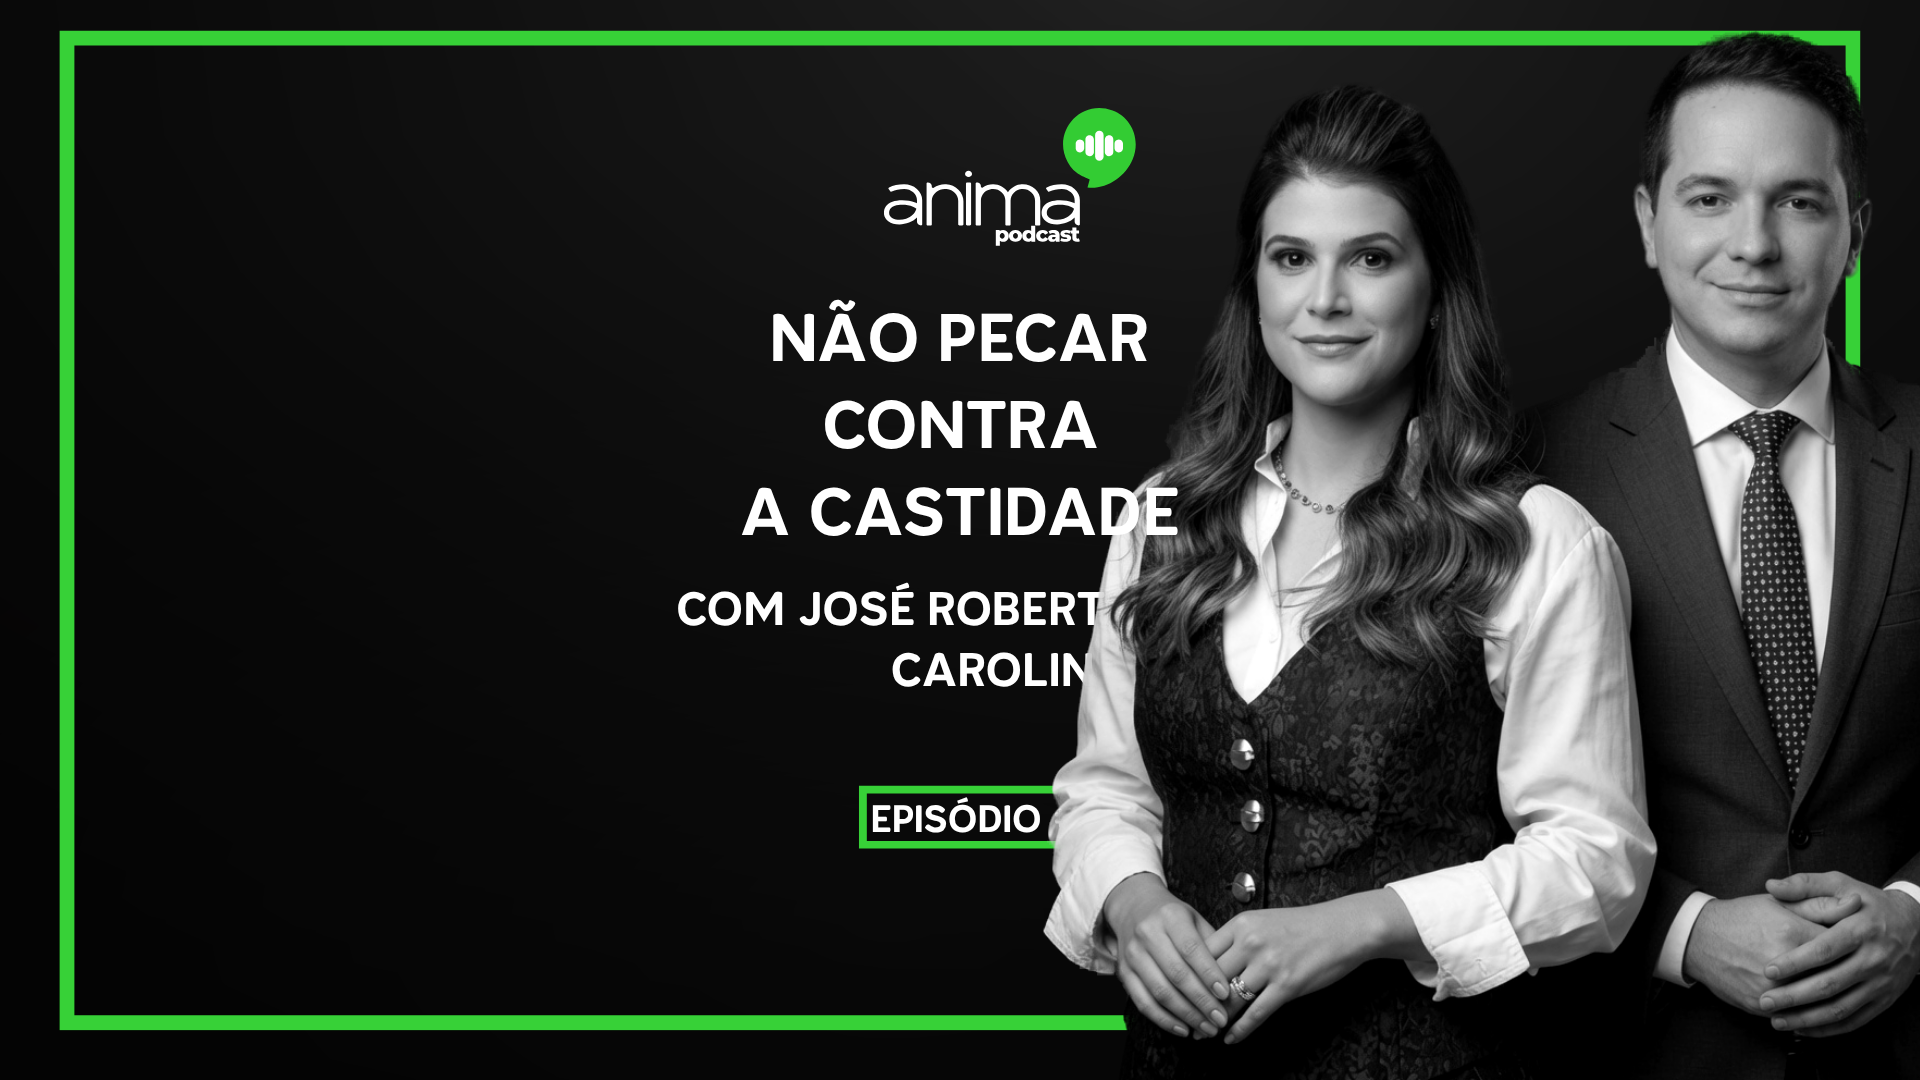
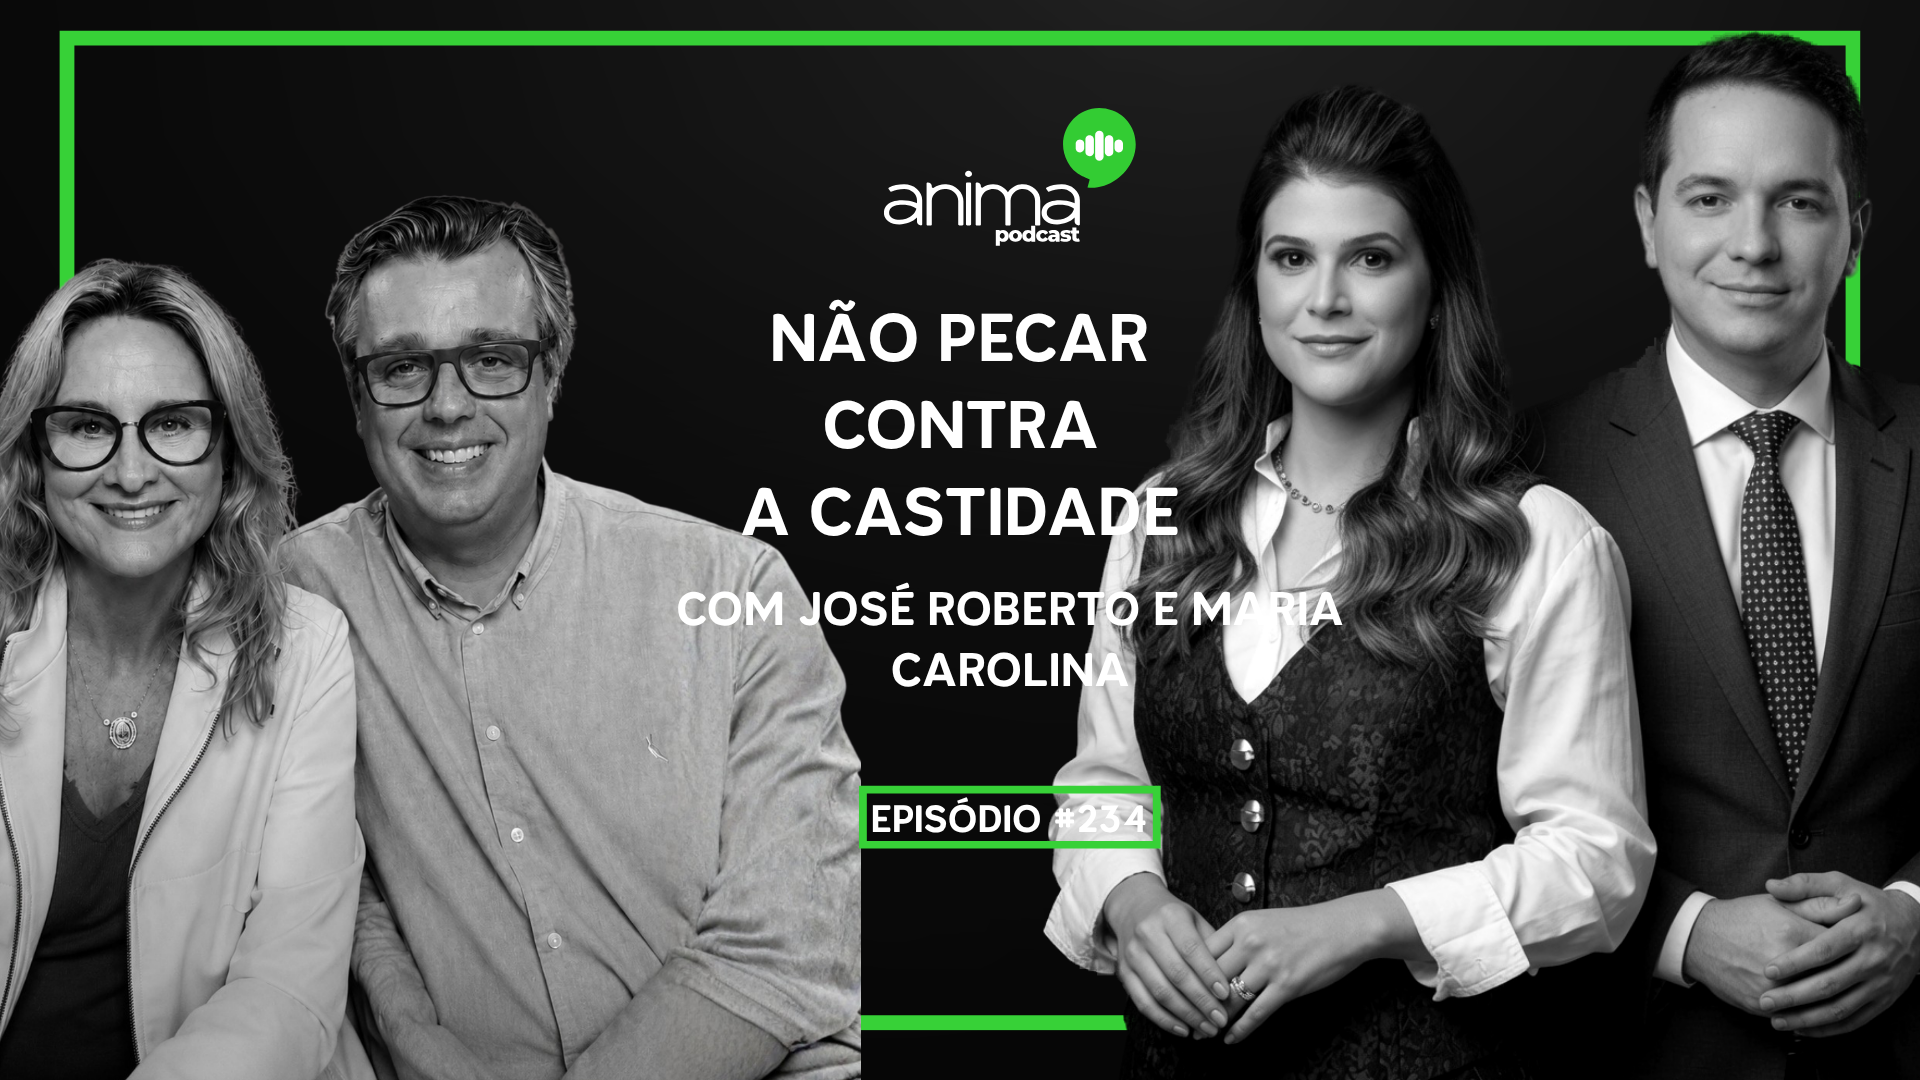
Adiciona casal de apresentadores em #234 e #268 (estavam sem casal)

diff --git a/review/casal-lote/index.html b/review/casal-lote/index.html
@@ -21,11 +21,11 @@ figcaption{padding:10px 12px;font-size:13px;line-height:1.5}
 <figure><img loading="lazy" src="e279.png" alt="#279">
 <figcaption><b>#279</b> <span class="b b-info">ja era single (#279)</span><br><span class="t">Os bastidores do filme de Guido Schaffer</span><br><span class="g">com Jayme Monjardim e Suzana Castelo</span></figcaption></figure>
 <figure><img loading="lazy" src="e268.png" alt="#268">
-<figcaption><b>#268</b> <span class="b b-skip">sem casal</span><br><span class="t">Anima e Santo Flow juntos pela 1a vez</span><br><span class="g">com Guto Azevedo e Zulene Parente</span></figcaption></figure>
+<figcaption><b>#268</b> <span class="b b-ok">casal adicionado</span><br><span class="t">Anima e Santo Flow juntos pela 1a vez</span><br><span class="g">com Guto Azevedo e Zulene Parente</span></figcaption></figure>
 <figure><img loading="lazy" src="e260.png" alt="#260">
 <figcaption><b>#260</b> <span class="b b-skip">sem casal</span><br><span class="t">O que esperar de 2026</span><br><span class="g">com Diogo e Vanessa</span></figcaption></figure>
 <figure><img loading="lazy" src="e234.png" alt="#234">
-<figcaption><b>#234</b> <span class="b b-skip">sem casal</span><br><span class="t">Nao pecar contra a castidade</span><br><span class="g">com Jose Roberto e Maria Carolina</span></figcaption></figure>
+<figcaption><b>#234</b> <span class="b b-ok">casal adicionado</span><br><span class="t">Nao pecar contra a castidade</span><br><span class="g">com Jose Roberto e Maria Carolina</span></figcaption></figure>
 <figure><img loading="lazy" src="e233.png" alt="#233">
 <figcaption><b>#233</b> <span class="b b-ok">casal trocado</span><br><span class="t">Quando o casamento comeca a morrer</span><br><span class="g">com Yasmin Fleming</span></figcaption></figure>
 <figure><img loading="lazy" src="e232.png" alt="#232">
